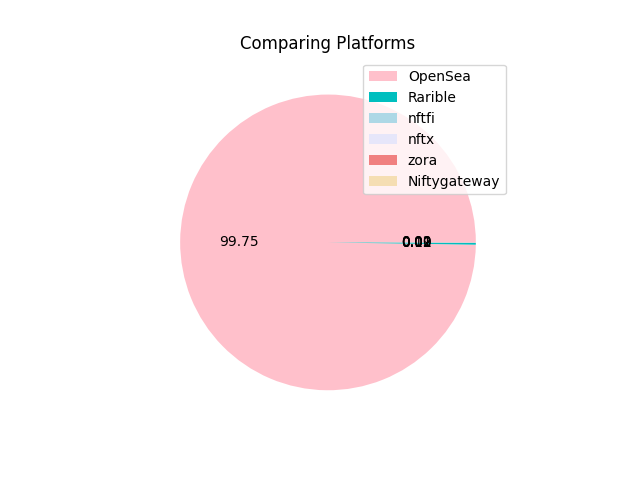
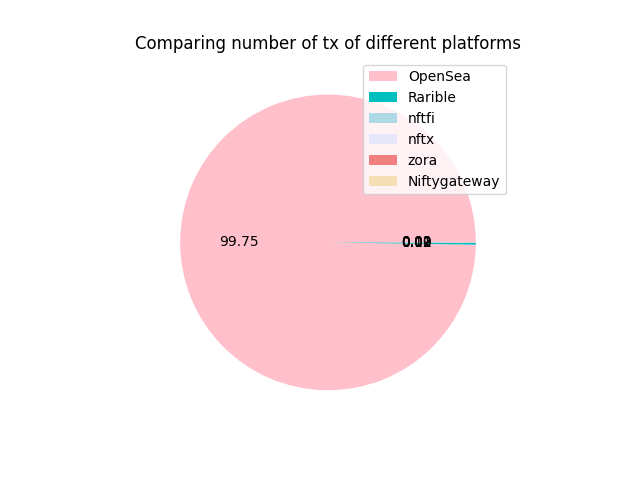
commit

Changed region(s): [[0.2188, 0.0625, 0.8125, 0.125]]

diff --git a/python/utils.py b/python/utils.py
@@ -3,8 +3,16 @@ import pandas as pd
 import csv
 import os
 
+colors = ["pink","c","lightblue","lavender","lightcoral","wheat","beige"]
+
+def draw_donut(title,values,names,file_name):
+    plt.pie(values, autopct='%.2f',colors=colors, rotatelabels =True,labels=names,startangle=150)
+    circle = plt.Circle(xy=(0,0),radius=0.75,facecolor='white')
+    plt.gca().add_artist(circle)
+    plt.title(title)
+    plt.savefig('/home/ruth/NFT-study/Ruth/Plots/{}.png'.format(file_name))
+
 def draw_pie(title,values,names,file_name):
-    colors = ["pink","c","lightblue","lavender","lightcoral","wheat"]
     plt.pie(values, autopct='%.2f',colors=colors)
     plt.legend(labels=names)
     plt.title(title)
@@ -74,3 +82,4 @@ def get_data_about_address(file,data,address):
             for row in reader.itertuples():
                 if row.to_address == address:
                     result.write(row.data)
+

diff --git a/python/GetCode.py b/python/GetCode.py
@@ -6,14 +6,17 @@ START_BLOCK=13176499
 END_BLOCK=13376499 
 STEP_SIZE=200000
 
+openSea_Contract = '0x7Be8076f4EA4A4AD08075C2508e481d6C946D12b'
+
 contract , private = 0, 0
 get_blocks_and_transactions(START_BLOCK, END_BLOCK, STEP_SIZE)
 with open('/home/ruth/NFT-study/Ruth/transactions.csv','r') as file:
     reader = pd.read_csv(file_r,sep=',')
     for row in reader.itertuples():
-        code = w3.eth.get_code(row.hash)
-        if code=='0x': private += 1
-        else: contract += 1
+        if row.to_address==openSea_Contract:
+            code = w3.eth.get_code(row.hash)
+            if code=='0x': private += 1
+            else: contract += 1
 
 values = [contract, private]
 names = ["Contracts", "Private address"]

diff --git a/python/Track_address.py b/python/Track_address.py
@@ -18,5 +18,5 @@ with open(file,'r') as f:
 new_dict = dict(Counter(dict_address).most_common(6))
 new_dict['other'] =sum(dict_address.values())-sum(new_dict.values())    
 
-draw_donut('Most Common to Addresses',new_dict.values(),contracts,'To_address')
+draw_donut('The most common address for receiving transactions',new_dict.values(),contracts,'To_address')
 

diff --git a/python/Platform.py b/python/Platform.py
@@ -25,4 +25,4 @@ with open(file,'r') as file_r:
         if address in platforms:
             values[platforms[address]] += 1
 
-draw_pie('Comparing Platforms',values.values(),values.keys(),'platforms')
+draw_pie('Comparing number of tx of different platforms',values.values(),values.keys(),'platforms')
